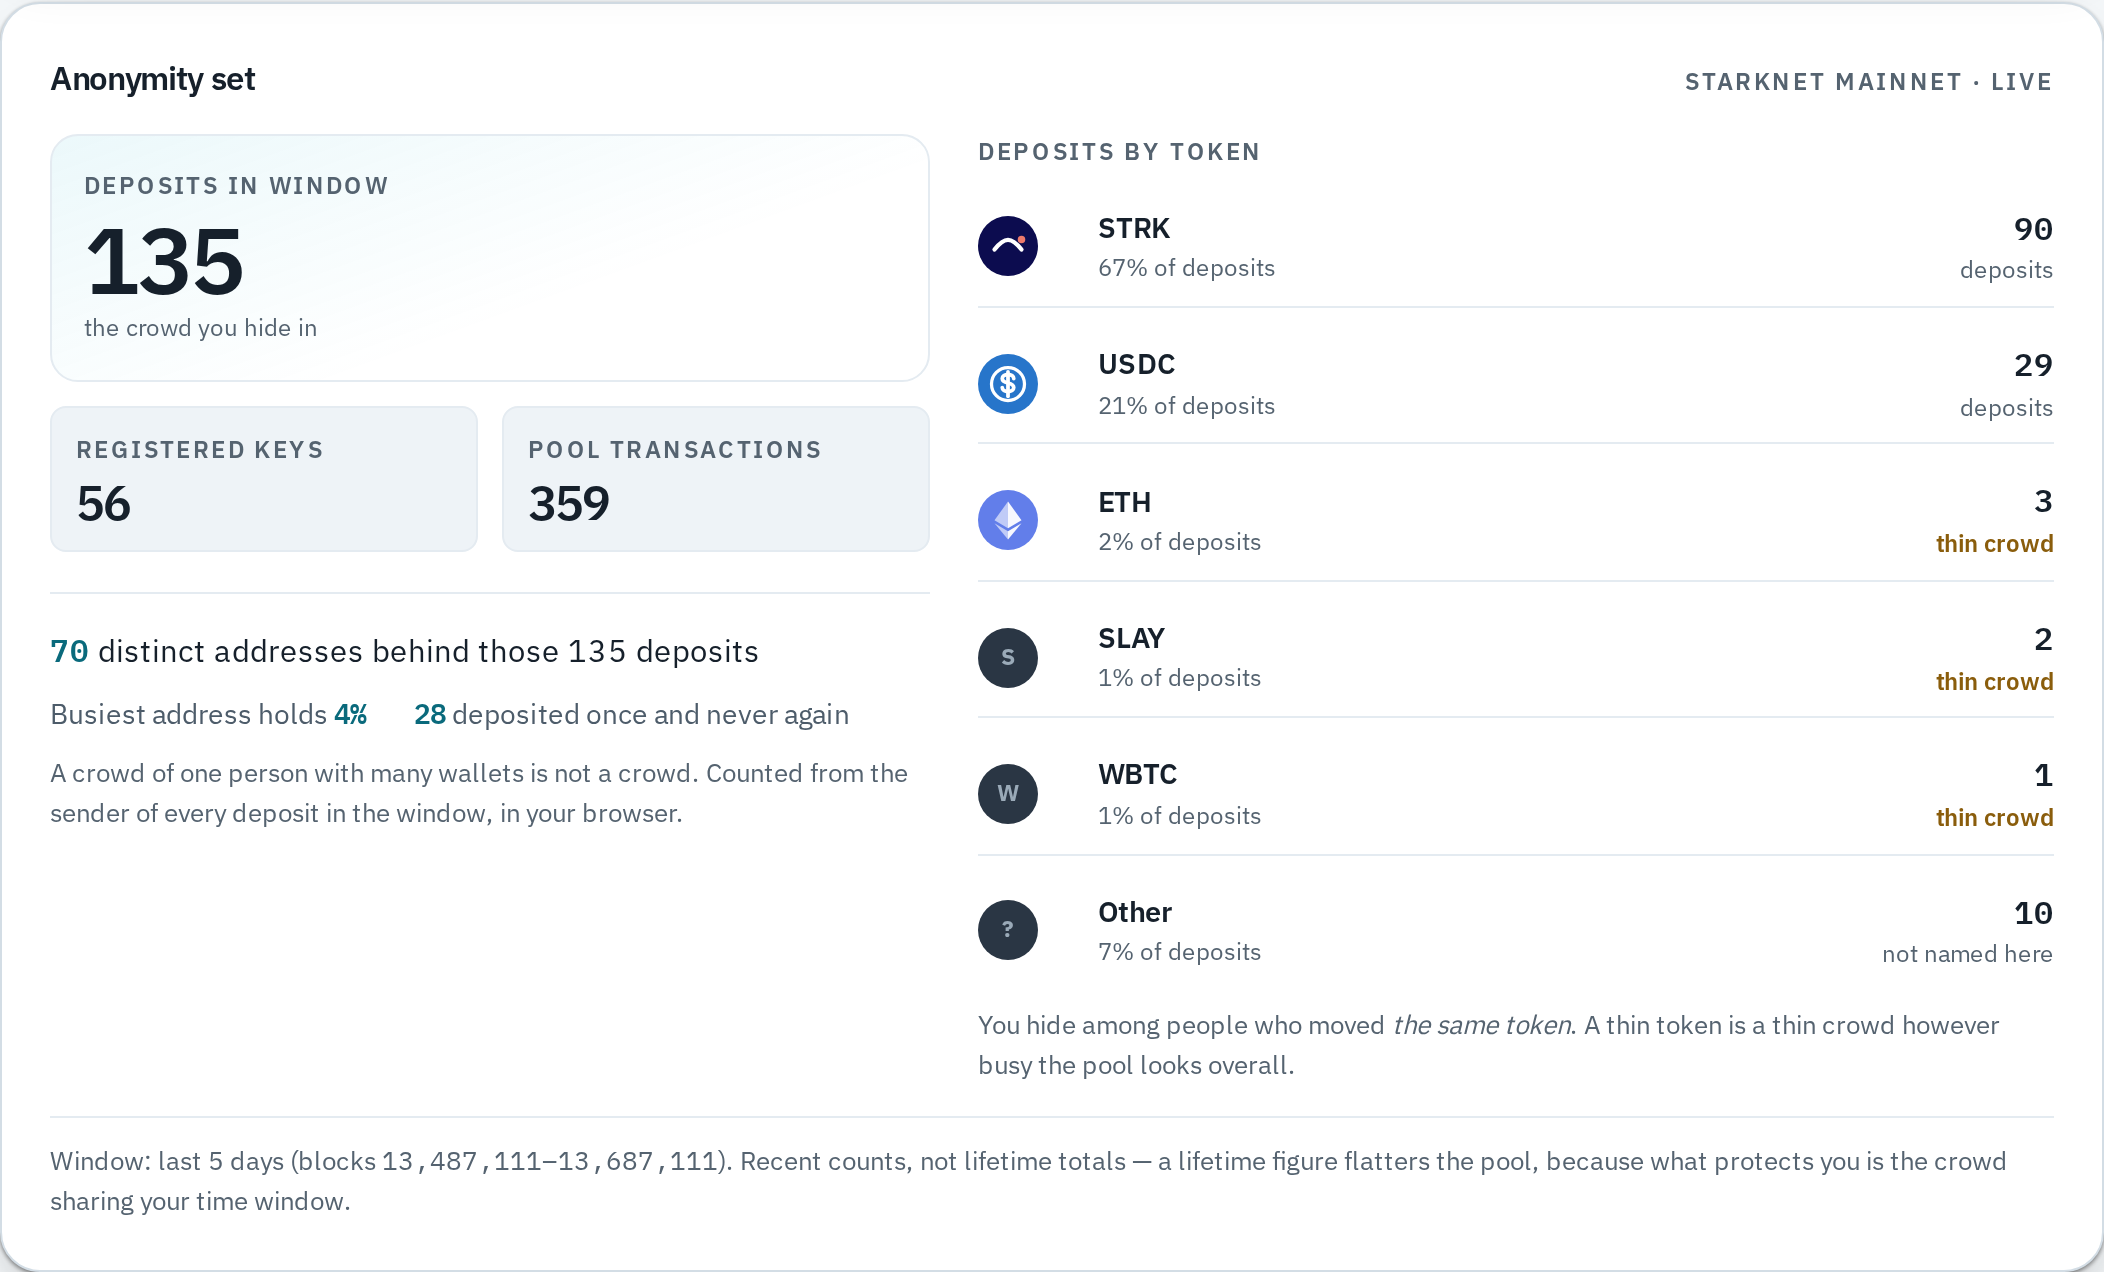
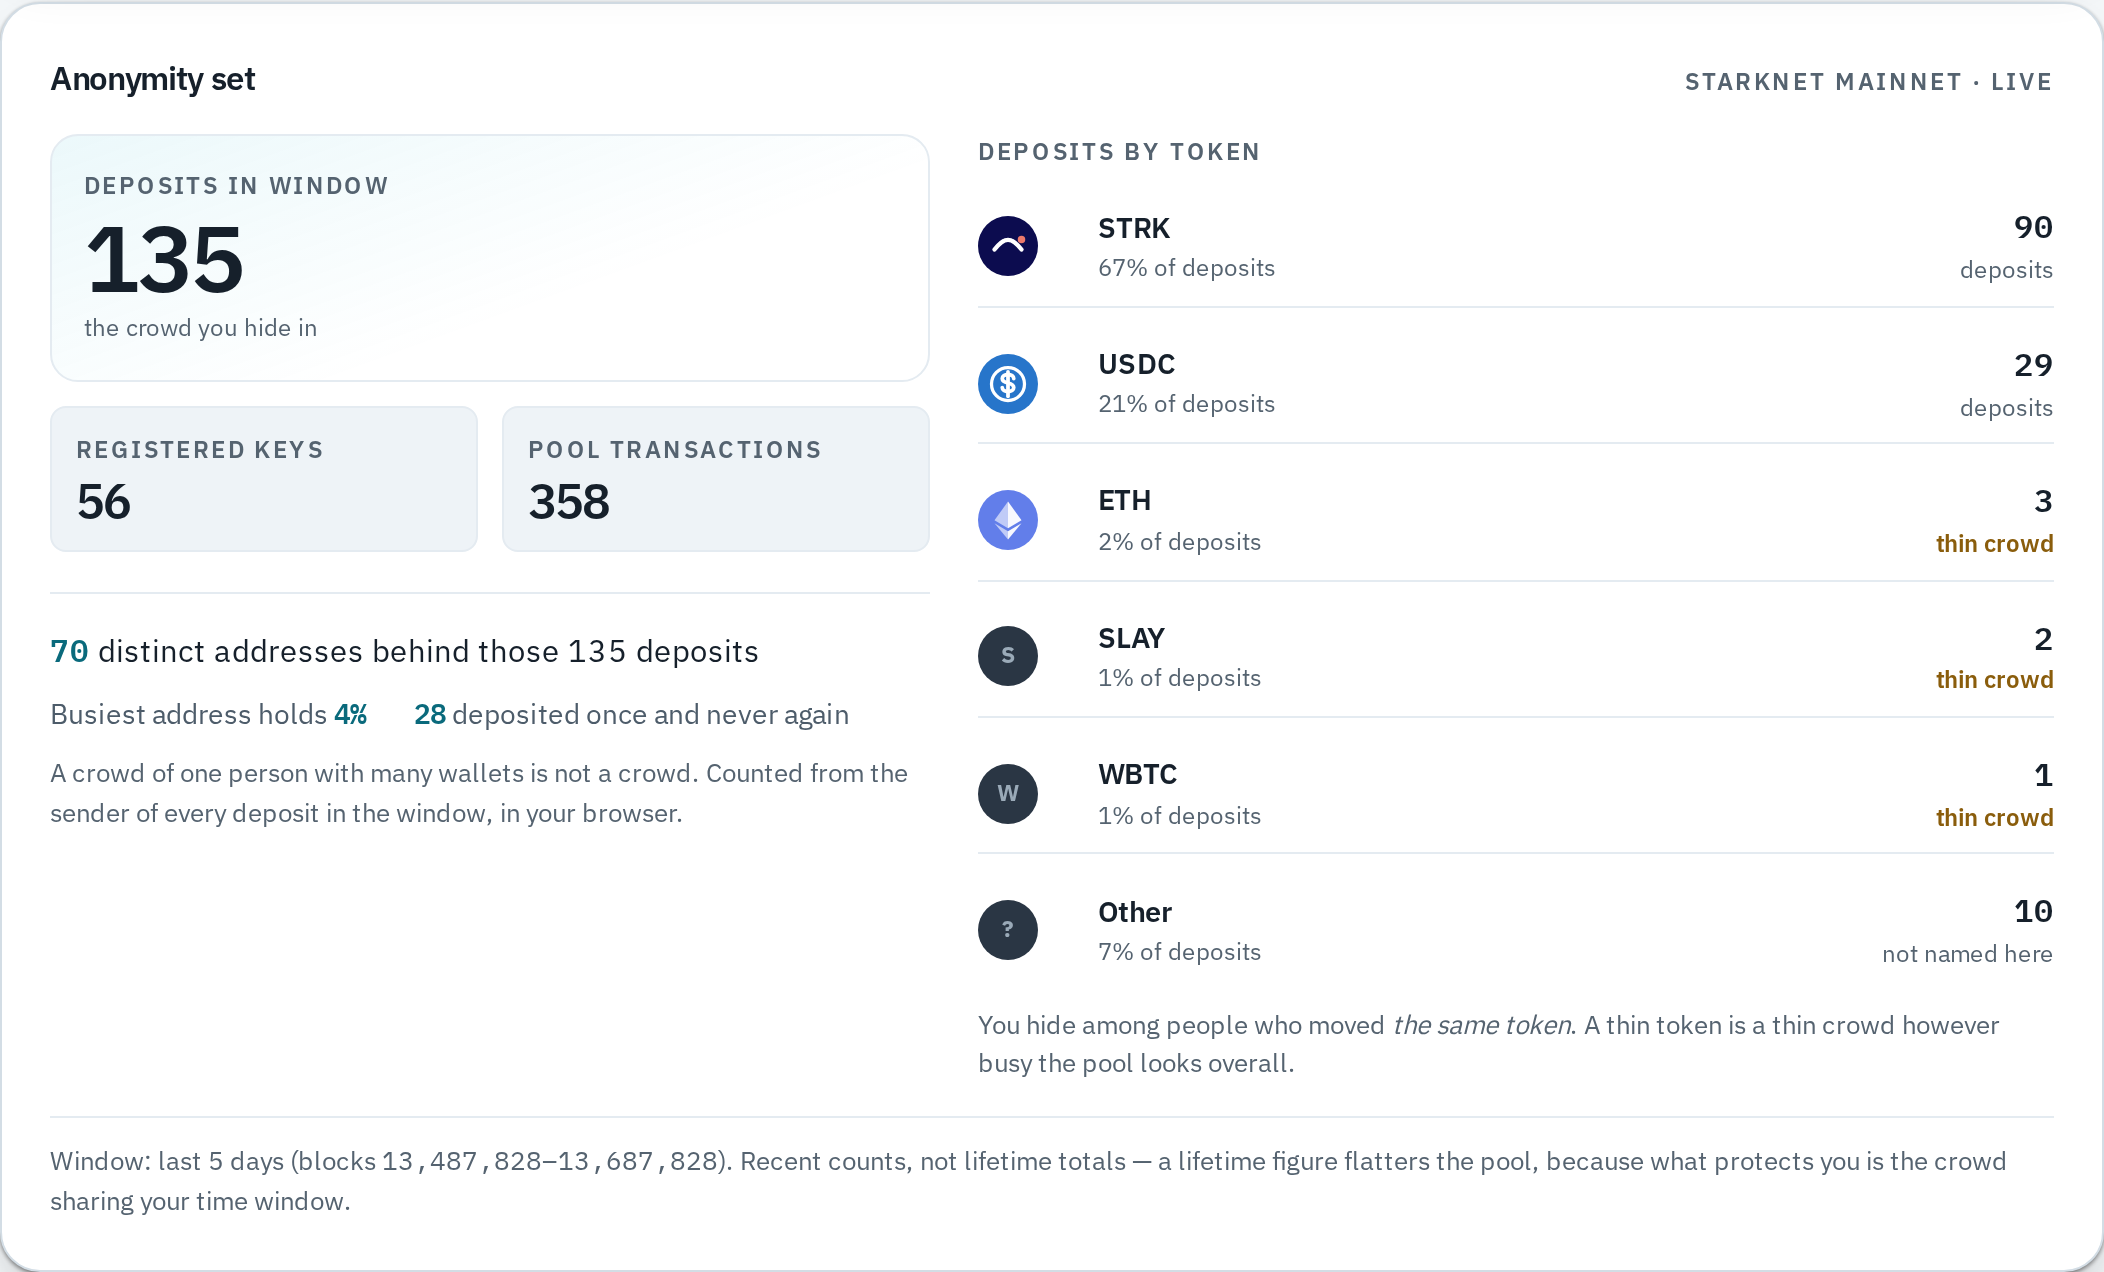
app: draw the split instead of describing it
The panel explained a picture in four blocks of prose, and then drew the picture
wrong: 5 and 0.1 differ by fifty times and rendered as identically-sized pills.
The one thing the visual existed to convey was the thing it threw away.

Two proportional bars now, because the comparison IS the argument — one
undivided amount above, the same value as ordinary sizes below. Nobody needs
that sentence written out once they can see it, so the lede drops from four
lines to one and the note about spending each piece separately goes entirely.

Sequential colour, not categorical, and that is load-bearing. Categorical hues
would paint the four 0.1 notes as four different things when the entire point is
that they are indistinguishable — from each other and from everyone else's. One
hue, bigger reads stronger, identical rungs render identically.

Both ramps were computed rather than picked. The first attempt failed contrast
in both themes: dark's darkest step was 2.41:1 and it was assigned to the
SMALLEST denomination, which is also the narrowest segment — invisible twice
over. Light's lightest was 1.49:1, and no pale cyan reaches 3:1 on white, so
that ramp compresses toward dark instead. Every step now clears 3:1 against its
own surface and both are strictly monotonic, which is the correct check for a
sequential ramp rather than the categorical CVD checks.

Segments carry a 2px surface gap rather than a stroke, and there is no label on
[…]

diff --git a/app/src/components/DenominatePanel.tsx b/app/src/components/DenominatePanel.tsx
@@ -233,9 +233,7 @@ export function DenominatePanel({
       {preview && (
         <p className="lede-in">
           Withdrawing <strong>8.4</strong> tells everyone watching it was you —
-          nobody else moved that exact number. Split it into standard amounts and
-          each piece looks like everybody else's. <strong>Try it below</strong>;
-          the answer comes from the contract on mainnet, and nothing is signed.
+          nobody else moved that exact number. Try any amount.
         </p>
       )}
 
@@ -294,11 +292,6 @@ export function DenominatePanel({
         />
       </label>
 
-      <p className="muted sm">
-        Rungs: {[1000n, 500n, 250n, 100n, 50n, 25n, 10n, 5n, 1n]
-          .map((r) => format(r * bucketer.unit, bucketer).replace(` ${bucketer.symbol}`, ''))
-          .join(' · ')} {bucketer.symbol}
-      </p>
 
       {overBalance && (
         <p className="err">
@@ -309,23 +302,18 @@ export function DenominatePanel({
 
       {!overBalance && planError && <p className="err">{planError}</p>}
 
-      {legs && (
-        <div className="split">
-          <div className="split-l">
-            {/* The chain's answer, not ours. */}
-            {legs.length} note{legs.length === 1 ? '' : 's'}, read from the contract
-          </div>
-          <div className="split-row">
-            {legs.map((l, i) => (
-              <span className="leg" key={i}>{format(l, bucketer).replace(` ${bucketer.symbol}`, '')}</span>
-            ))}
-          </div>
-          <p className="split-note">
-            Each note can be spent in its own transaction later. That is the point — the
-            same amounts sent together in one transaction would be linked by it.
-          </p>
-        </div>
+      {legs && amount !== null && (
+        <SplitBar legs={legs} amount={amount} bucketer={bucketer} />
       )}
+
+      <p className="muted sm">
+        Standard sizes:{' '}
+        {[1000n, 500n, 250n, 100n, 50n, 25n, 10n, 5n, 1n]
+          .map((r) => format(r * bucketer.unit, bucketer).replace(` ${bucketer.symbol}`, ''))
+          .join(' · ')}{' '}
+        {bucketer.symbol}. Anything that is not an exact sum of these is refused
+        rather than rounded.
+      </p>
 
       {/* The bill, named in the same voice as the leaks. Everything else in this
           panel tells you what a privacy step costs your anonymity; this tells
@@ -425,4 +413,92 @@ function StageLine({
     case 'failed':
       return <p className={stage.recoverable ? 'err' : 'notice notice-leak'}>{stage.message}</p>;
   }
+}
+
+
+/* ---------- the split, drawn ----------
+ *
+ * This was a row of identically-sized pills. 5 and 0.1 differ by fifty times and
+ * rendered the same width, which threw away the one thing the picture is for —
+ * and three paragraphs of prose underneath were doing the explaining instead.
+ *
+ * Two bars, because the comparison IS the argument: one distinctive amount above,
+ * the same value as ordinary sizes below. Nobody needs that sentence written out
+ * once they can see it.
+ *
+ * Sequential rather than categorical colour, deliberately. Categorical hues would
+ * paint the four 0.1 notes as four different things when the whole point is that
+ * they are indistinguishable — from each other and from everyone else's. One hue,
+ * bigger is stronger, and identical rungs render identically.
+ */
+function SplitBar({
+  legs,
+  amount,
+  bucketer,
+}: {
+  legs: bigint[];
+  amount: bigint;
+  bucketer: Bucketer;
+}) {
+  const moved = legs.reduce((a, b) => a + b, 0n);
+  if (moved === 0n) return null;
+
+  const num = (v: bigint) => format(v, bucketer).replace(` ${bucketer.symbol}`, '');
+
+  /* Distinct rungs, largest first — the shade index, and the summary below. */
+  const rungs = [...new Set(legs.map(String))]
+    .map((v) => BigInt(v))
+    .sort((a, b) => (b > a ? 1 : b < a ? -1 : 0));
+  const shadeOf = (leg: bigint) =>
+    rungs.length < 2 ? 0 : Math.round((rungs.findIndex((r) => r === leg) / (rungs.length - 1)) * 3);
+
+  return (
+    <figure className="splitfig">
+      <div className="splitfig-row">
+        <span className="splitfig-k">You withdraw</span>
+        <div className="splitbar">
+          <div className="splitseg splitseg-solo" style={{ width: '100%' }} />
+        </div>
+        <span className="splitfig-v mono">
+          {num(amount)} {bucketer.symbol}
+        </span>
+      </div>
+
+      <div className="splitfig-row">
+        <span className="splitfig-k">Anyone watching sees</span>
+        <div className="splitbar">
+          {legs.map((l, i) => (
+            <div
+              key={i}
+              className={`splitseg splitseg-${shadeOf(l)}`}
+              /* Proportional to value, with a floor so a 0.1 beside a 1000 stays
+                 visible rather than collapsing to nothing. */
+              style={{ flex: `${Number((l * 10000n) / moved)} 0 3px` }}
+              title={`${num(l)} ${bucketer.symbol}`}
+            />
+          ))}
+        </div>
+        <span className="splitfig-v mono">
+          {legs.length} note{legs.length === 1 ? '' : 's'}
+        </span>
+      </div>
+
+      {/* The values, once, grouped — not a label on every segment. Four 0.1s are
+          one fact, and the grouping is also what the privacy report reads: it is
+          the count of DISTINCT sizes that makes a combination a pattern. */}
+      <figcaption className="splitfig-cap">
+        {rungs.map((r) => {
+          const n = legs.filter((l) => l === r).length;
+          return (
+            <span className="splitkey" key={String(r)}>
+              <i className={`splitkey-sw splitseg-${shadeOf(r)}`} aria-hidden="true" />
+              {num(r)}
+              {n > 1 && <span className="splitkey-x">&times;{n}</span>}
+            </span>
+          );
+        })}
+        <span className="splitkey-note">each a size other people also use</span>
+      </figcaption>
+    </figure>
+  );
 }

diff --git a/app/src/App.css b/app/src/App.css
@@ -2419,3 +2419,98 @@ body {
   font-size: 0.88rem;
   color: var(--text-2);
 }
+
+/* ---------- the split figure ----------
+   Two bars: one distinctive amount, then the same value as ordinary sizes. The
+   comparison is the argument, so it is drawn rather than described.
+
+   Sequential ramp, not categorical. Categorical hues would paint four 0.1 notes
+   as four different things, when the entire point is that they are
+   indistinguishable — from each other and from everyone else's. */
+.splitfig {
+  margin: var(--s4) 0 0;
+  display: flex;
+  flex-direction: column;
+  gap: var(--s3);
+}
+.splitfig-row {
+  display: grid;
+  grid-template-columns: minmax(0, 8rem) minmax(0, 1fr) auto;
+  align-items: center;
+  gap: var(--s3);
+}
+.splitfig-k {
+  font-size: 0.75rem;
+  color: var(--text-3);
+  text-transform: uppercase;
+  letter-spacing: 0.08em;
+}
+.splitfig-v {
+  font-size: 0.86rem;
+  color: var(--text-2);
+  font-variant-numeric: tabular-nums;
+  white-space: nowrap;
+}
+.splitbar {
+  display: flex;
+  /* The gap IS the separator — a 2px band of surface between segments, never a
+     stroke drawn around them. */
+  gap: 2px;
+  height: 22px;
+  min-width: 0;
+}
+.splitseg {
+  min-width: 0;
+  border-radius: 2px;
+  background: var(--seg-2);
+}
+/* One hue, four steps. Bigger denomination reads stronger. */
+.splitseg-0 { background: var(--seg-3); }
+.splitseg-1 { background: var(--seg-2); }
+.splitseg-2 { background: var(--seg-1); }
+.splitseg-3 { background: var(--seg-0); }
+/* The unsplit amount: one undivided block, the thing being argued against. */
+.splitseg-solo {
+  background: var(--seg-solo);
+  flex: 1;
+}
+
+.splitfig-cap {
+  display: flex;
+  flex-wrap: wrap;
+  align-items: center;
+  gap: var(--s2) var(--s4);
+  margin: 0;
+  font-size: 0.86rem;
+  color: var(--text-2);
+  font-family: var(--mono);
+}
+.splitkey {
+  display: inline-flex;
+  align-items: center;
+  gap: 6px;
+}
+.splitkey-sw {
+  width: 10px;
+  height: 10px;
+  border-radius: 2px;
+  flex: none;
+}
+.splitkey-x {
+  color: var(--text-3);
+}
+.splitkey-note {
+  font-family: var(--sans);
+  color: var(--text-3);
+  font-size: 0.82rem;
+}
+
+@media (max-width: 560px) {
+  /* The label stacks above the bar rather than squeezing it to nothing. */
+  .splitfig-row {
+    grid-template-columns: minmax(0, 1fr) auto;
+  }
+  .splitfig-k {
+    grid-column: 1 / -1;
+  }
+}

diff --git a/app/src/tokens.css b/app/src/tokens.css
@@ -54,6 +54,16 @@
   --surface-4: #27333f;
   --border-hi: #2d3c4c;
 
+  /* Sequential ramp for the split figure: one hue, four steps, strongest first.
+     Drawn from the accent so the figure reads as part of the live path. The
+     `solo` step is the un-split amount — the same hue, flatter, because it is
+     the state being argued against rather than a fifth category. */
+  --seg-0: #1b7a8d; /* 3.56:1 */
+  --seg-1: #229bb3; /* 5.43:1 */
+  --seg-2: #2ebbd7; /* 7.81:1 */
+  --seg-3: #87d8e8; /* 11.03:1 — every step clears 3:1 on the card surface */
+  --seg-solo: #445a6a;
+
   /* Ink on a filled semantic colour. These do NOT flip with the theme: the
      fills stay saturated in both, so the readable ink on them stays dark. */
   --on-accent: #04191d;
@@ -126,7 +136,22 @@
     --accent-wash: #e2f1f4;
     --accent-hi: #0a6a7c;
   --accent-fill: #2ab3cc; /* 7.25:1 with --on-accent */
+  --seg-0: #084652; /* 10.48:1 */
+  --seg-1: #0c6678; /* 6.57:1 */
+  --seg-2: #0f849b; /* 4.37:1 */
+  --seg-3: #13a0bc; /* 3.09:1 */
+  --seg-solo: #8d9dab;
     --accent-fill: #2ab3cc; /* 7.25:1 with --on-accent */
+  --seg-0: #084652; /* 10.48:1 */
+  --seg-1: #0c6678; /* 6.57:1 */
+  --seg-2: #0f849b; /* 4.37:1 */
+  --seg-3: #13a0bc; /* 3.09:1 */
+  --seg-solo: #8d9dab;
+    --seg-0: #084652; /* 10.48:1 */
+    --seg-1: #0c6678; /* 6.57:1 */
+    --seg-2: #0f849b; /* 4.37:1 */
+    --seg-3: #13a0bc; /* 3.09:1 */
+    --seg-solo: #8d9dab;
     --accent-grad-a: #2ab3cc;
     --accent-grad-b: #0d7d92;
     --accent-grad-a-hi: #21a3bb;
@@ -165,6 +190,11 @@
   --accent-wash: #e2f1f4;
   --accent-hi: #0a6a7c;
   --accent-fill: #2ab3cc; /* 7.25:1 with --on-accent */
+  --seg-0: #084652; /* 10.48:1 */
+  --seg-1: #0c6678; /* 6.57:1 */
+  --seg-2: #0f849b; /* 4.37:1 */
+  --seg-3: #13a0bc; /* 3.09:1 */
+  --seg-solo: #8d9dab;
   --accent-grad-a: #2ab3cc;
   --accent-grad-b: #0d7d92;
   --accent-grad-a-hi: #21a3bb;

diff --git a/README.md b/README.md
@@ -8,7 +8,7 @@ Built on the [STRK20](https://strk20-by-example.org/what-is-strk20) privacy pool
 
 ---
 
-![Splitting a withdrawal into standard note sizes, answered by the deployed mainnet contract](docs/img/split.png)
+![One distinctive amount of 8.4 STRK shown as a single bar, and the same value below as seven proportional standard-size notes](docs/img/split.png)
 
 Type an amount and the deployed mainnet contract answers. No wallet, no
 signature — `plan` is a view function, so the split you see is the split that
